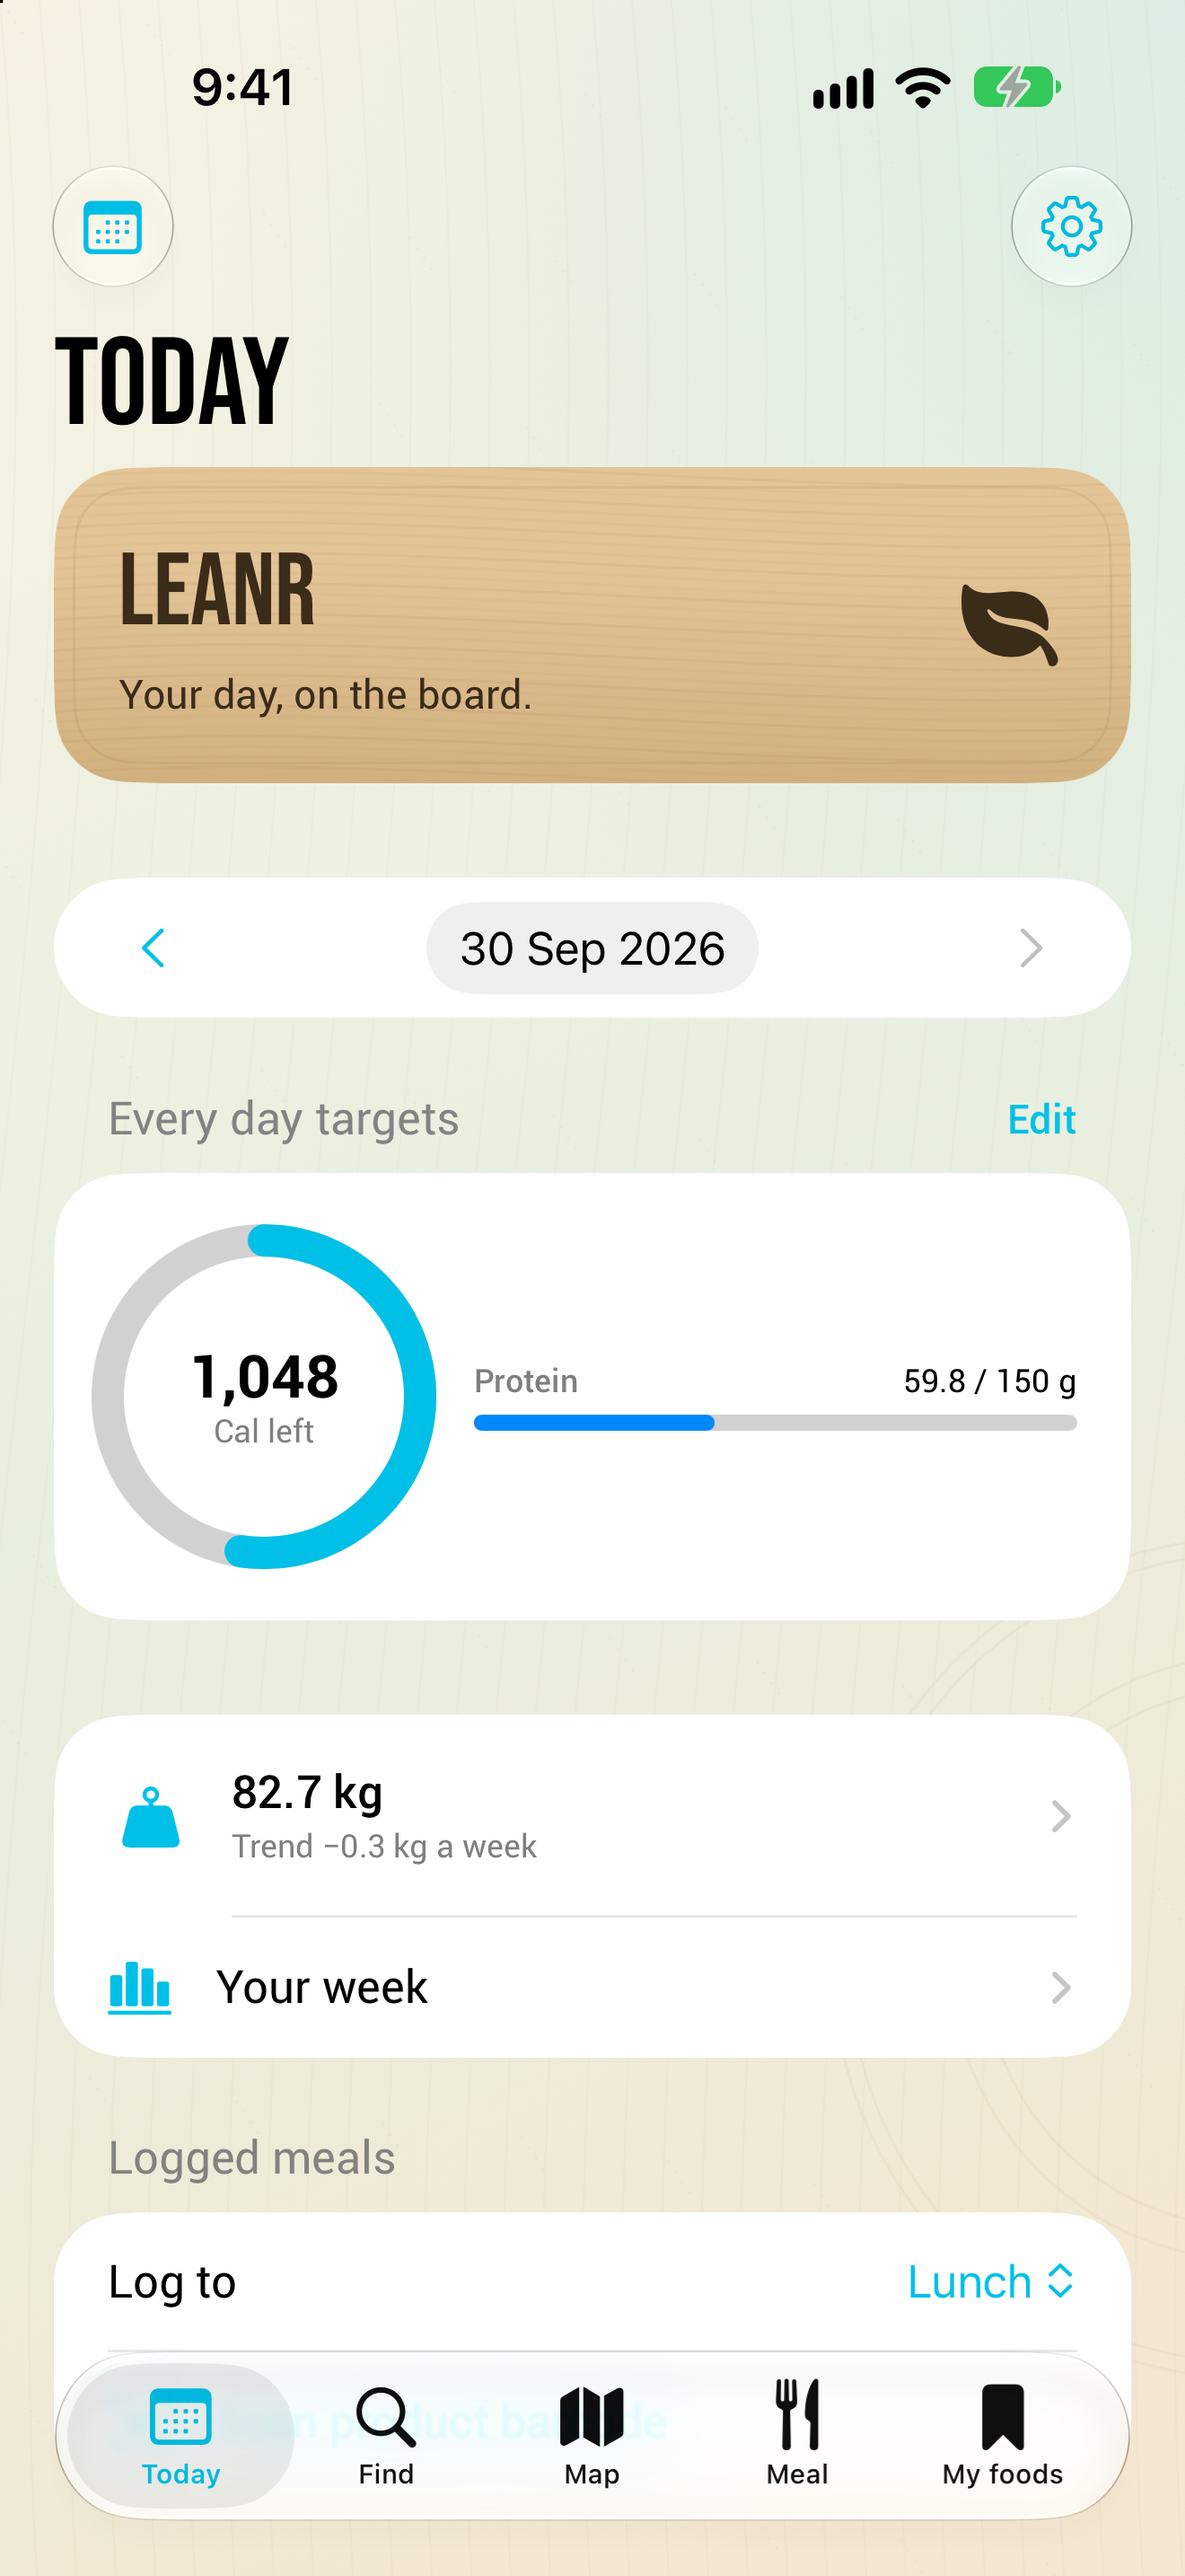
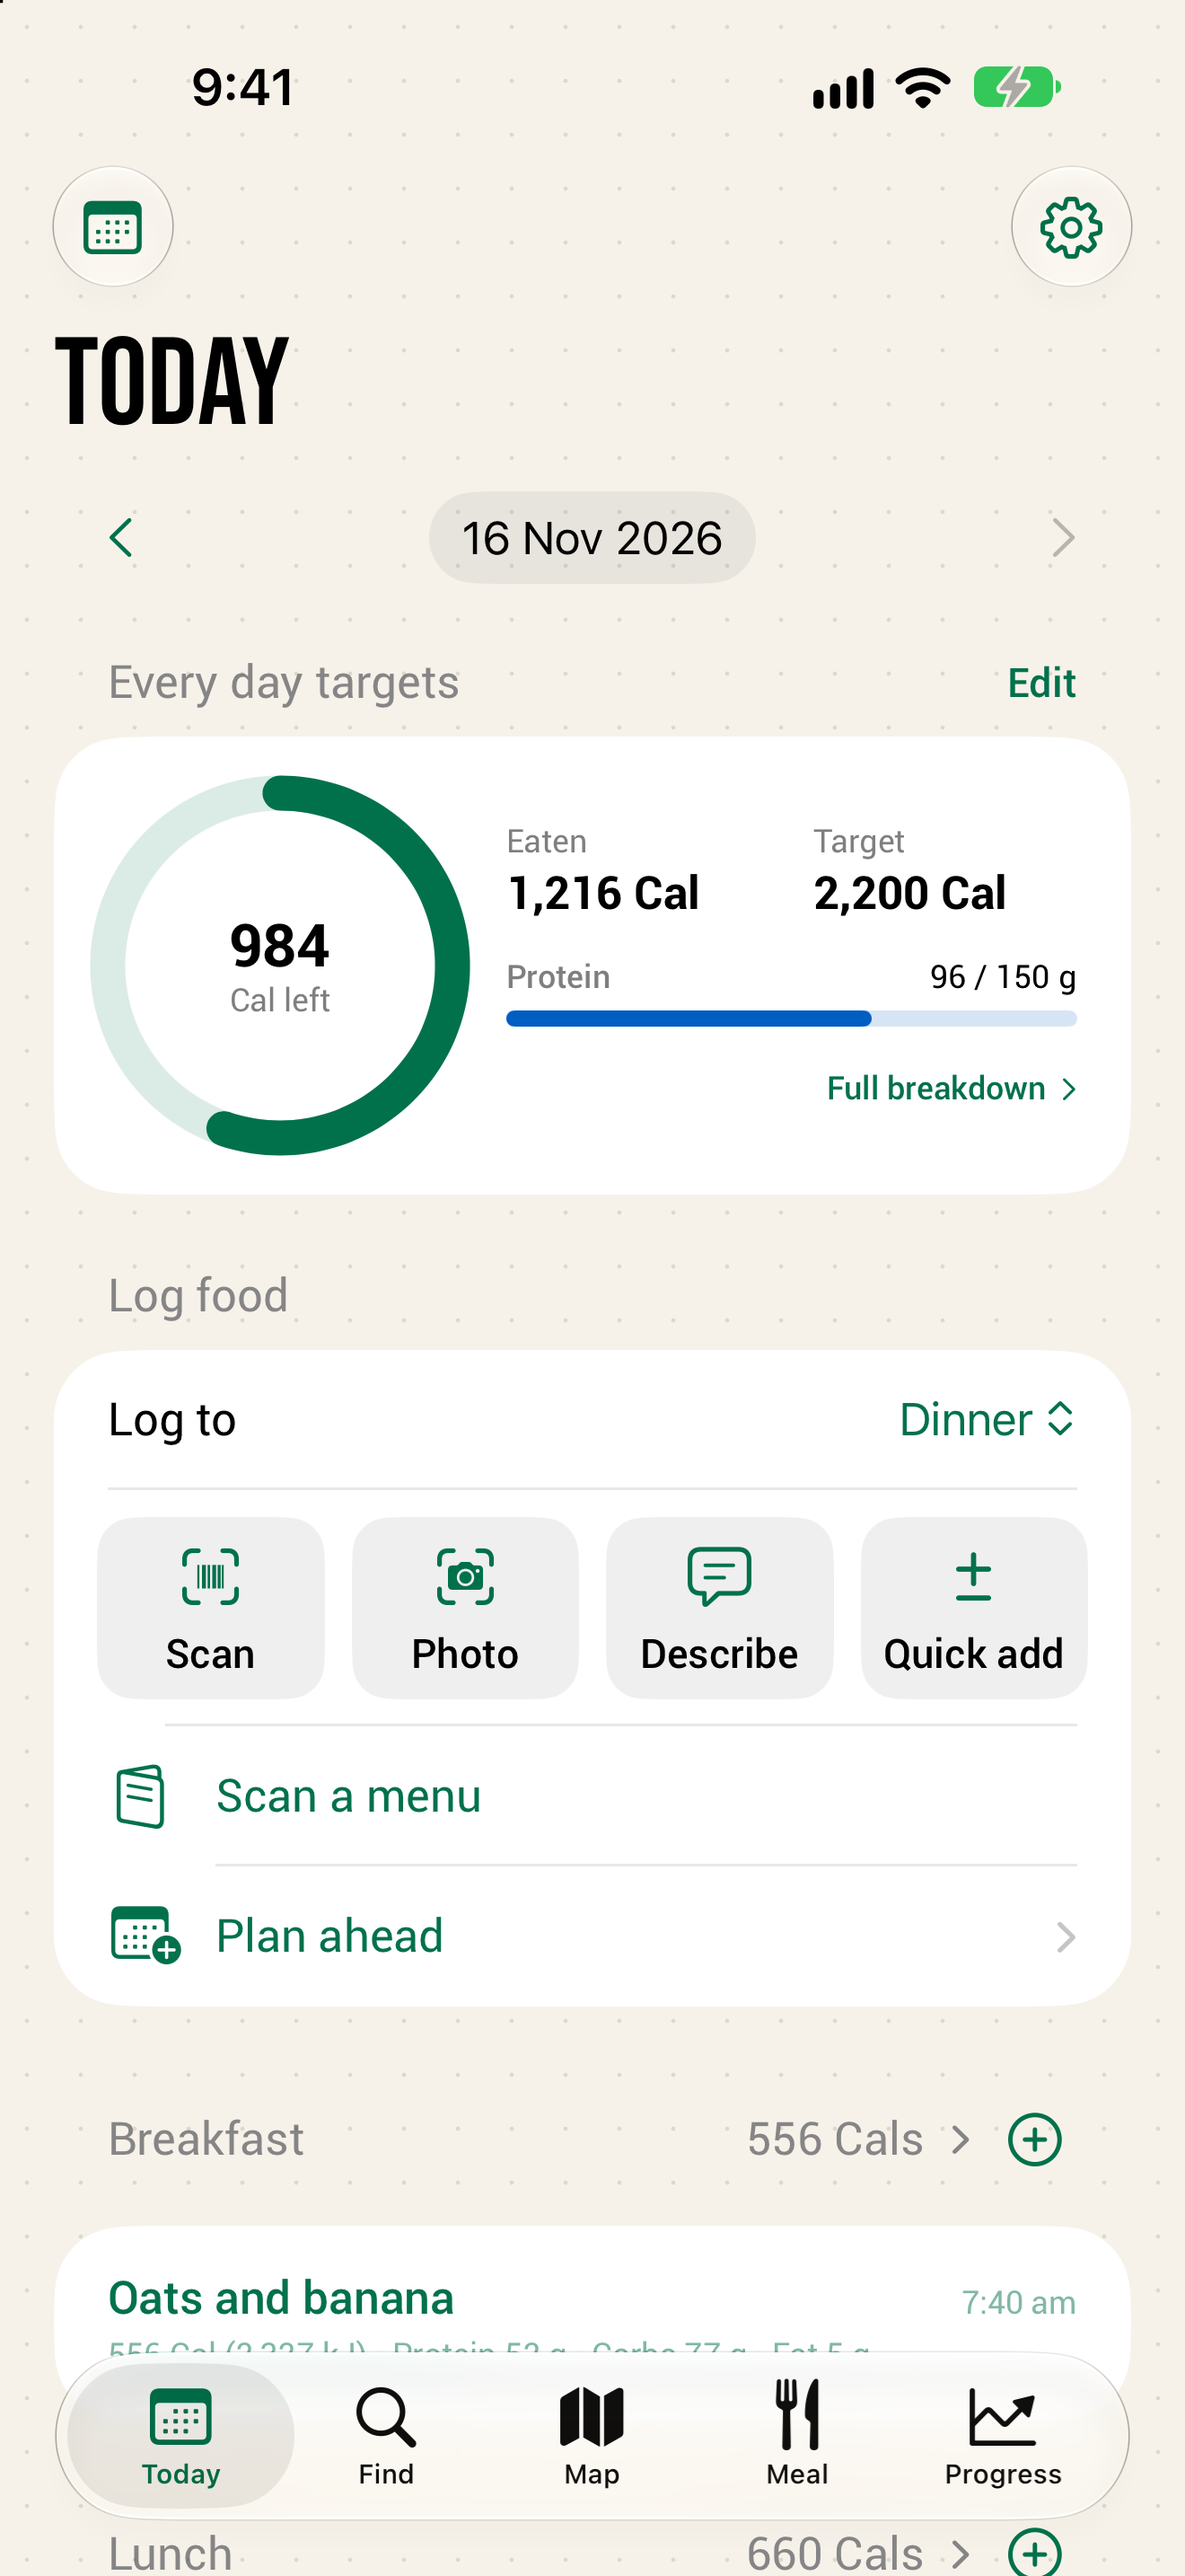
Retake the iPhone App Store screenshots

diff --git a/ios/AppStore/README.md b/ios/AppStore/README.md
@@ -104,12 +104,12 @@ In Debug builds only, launching with `-LeanrForcePremium` shows the unlocked scr
 
 ## Screenshots
 
-`Screenshots/` holds 6.9-inch iPhone screenshots (1320 × 2868) from the iPhone 18 Pro Max simulator, with a clean
-status bar and a week of sample meals:
+`Screenshots/` holds five 6.9-inch iPhone screenshots (1320 × 2868, retaken 16 Nov 2026 on the iPhone 18 Pro Max
+simulator with a 9:41 status bar and the same sample data as the iPad set):
 
-1. Today: calories left, protein, weight trend and the weekly review.
+1. Today: calories left, protein and the Log food card.
 2. Find: an order that fits your calories and protein.
-3. Your week: days logged, averages, protein days and trend.
+3. Progress: your week, with days logged, averages and protein days.
 4. Weight: scale readings and the smoothed trend.
 5. Meal: Log again.
 
